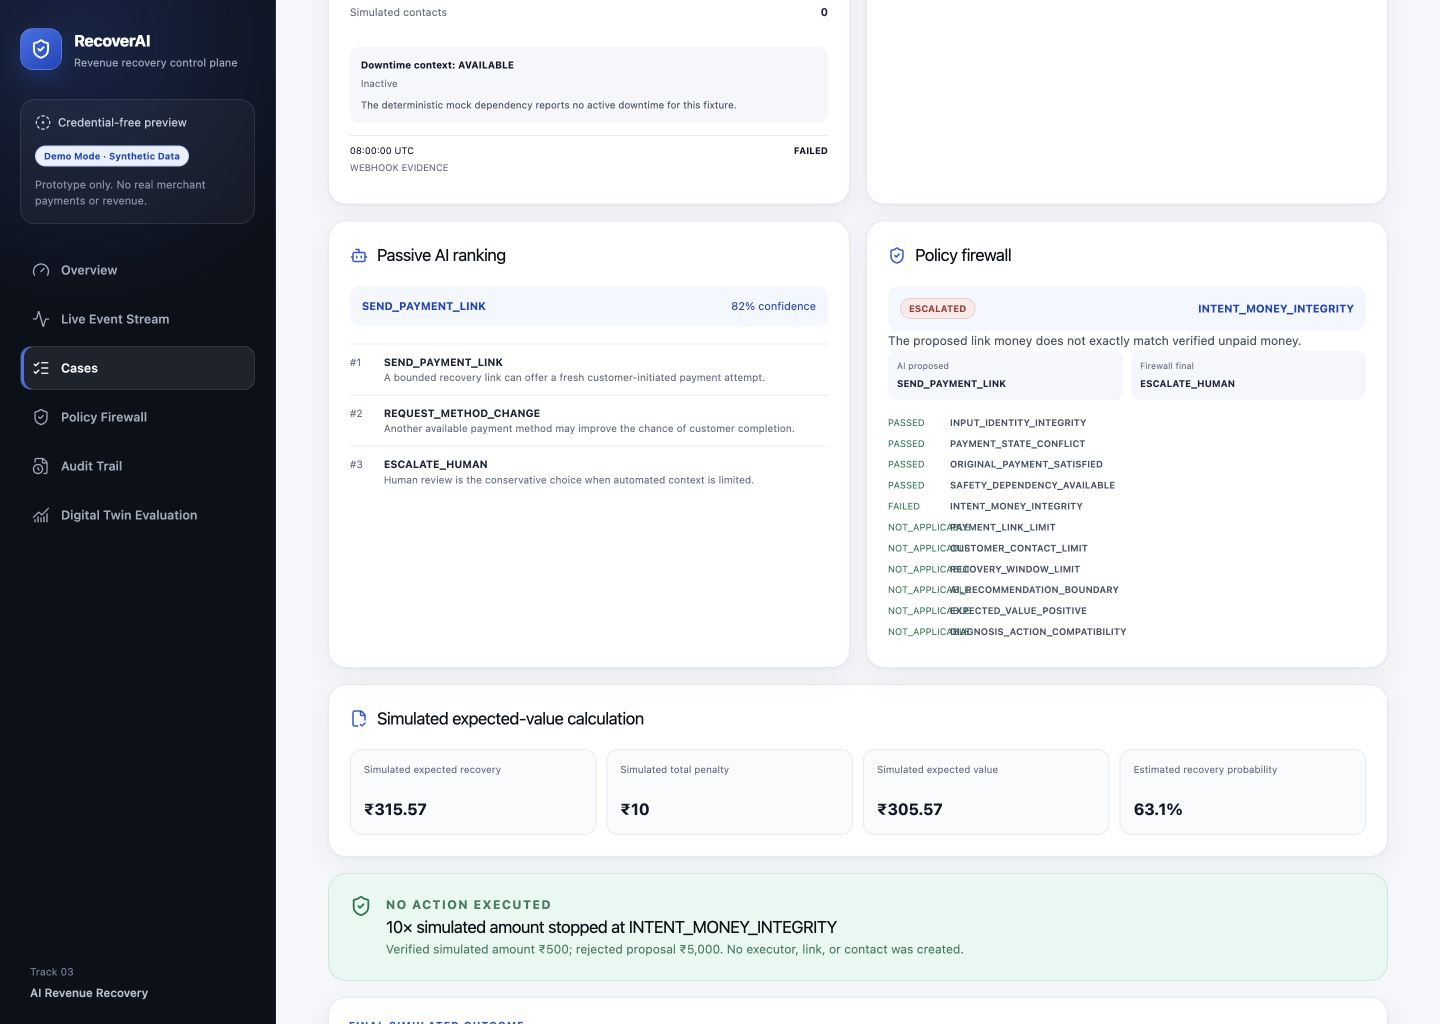
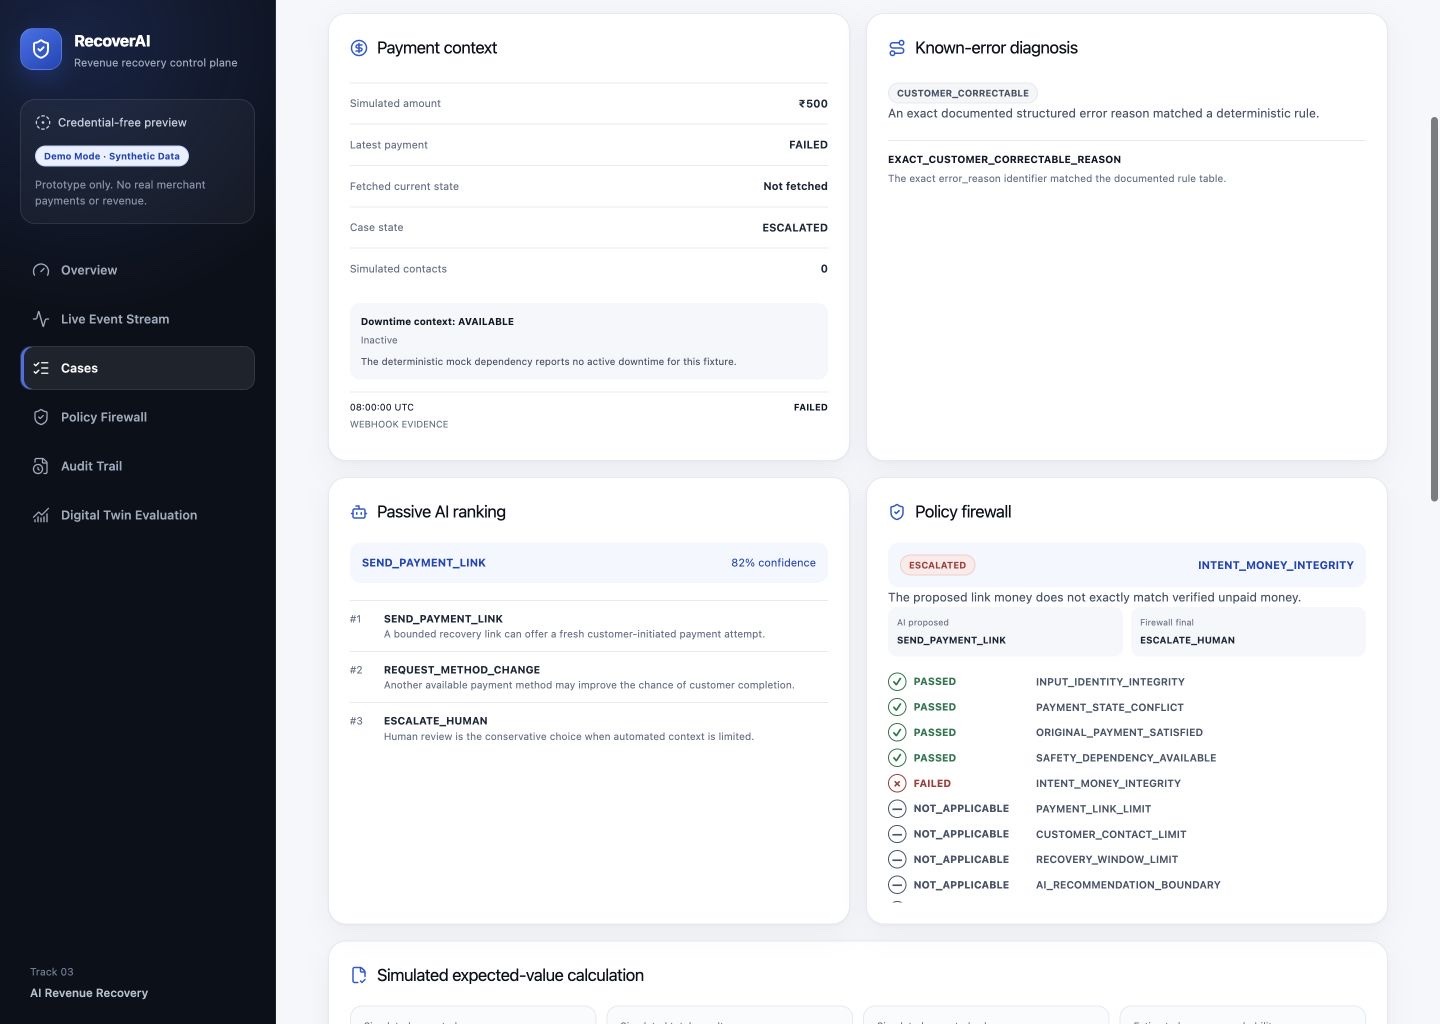
fix: finalize RecoverAI release candidate

diff --git a/app/globals.css b/app/globals.css
@@ -981,6 +981,8 @@ a {
   *::before,
   *::after {
     scroll-behavior: auto !important;
+    animation-duration: 0.01ms !important;
+    animation-iteration-count: 1 !important;
     transition-duration: 0.01ms !important;
   }
 }
@@ -1300,19 +1302,52 @@ a {
 
 .check-list > div {
   display: grid;
-  grid-template-columns: 54px 1fr;
+  grid-template-columns: minmax(8.75rem, max-content) minmax(0, 1fr);
   gap: 8px;
   align-items: center;
-  font-size: 0.58rem;
+  font-size: 0.64rem;
 }
 
-.check-list span {
+.policy-check-status {
+  display: inline-flex;
+  min-width: 0;
+  align-items: center;
+  gap: 0.45rem;
+  color: var(--ink-600);
+  font-weight: 750;
+  line-height: 1.35;
+  white-space: nowrap;
+}
+
+.policy-check-status > span[aria-hidden="true"] {
+  display: inline-grid;
+  width: 1.15rem;
+  height: 1.15rem;
+  flex: none;
+  place-items: center;
+  border: 1px solid currentColor;
+  border-radius: 999px;
+  font-size: 0.7rem;
+}
+
+[data-status="PASSED"] .policy-check-status {
   color: var(--green-700);
 }
 
-.check-list strong {
+[data-status="FAILED"] .policy-check-status {
+  color: var(--red-700);
+}
+
+[data-status="NOT_APPLICABLE"] .policy-check-status {
+  color: var(--ink-600);
+}
+
+.policy-check-rule {
+  min-width: 0;
+  overflow-wrap: anywhere;
   color: var(--ink-600);
   font-weight: 600;
+  line-height: 1.4;
 }
 
 .ev-card,
@@ -1931,11 +1966,11 @@ summary:focus-visible {
 }
 .policy-checks li {
   display: grid;
-  grid-template-columns: 64px 1fr;
+  grid-template-columns: minmax(8.75rem, max-content) minmax(0, 1fr);
   gap: 6px 8px;
   border-top: 1px solid var(--line);
   padding: 9px 0;
-  font-size: 0.58rem;
+  font-size: 0.64rem;
 }
 .policy-checks li p {
   grid-column: 2;
@@ -1999,11 +2034,19 @@ summary:focus-visible {
   font-size: 0.58rem;
 }
 .evaluation-identity dd {
+  min-width: 0;
   margin: 5px 0 0;
   overflow-wrap: anywhere;
   color: var(--ink-800);
   font-size: 0.62rem;
   font-weight: 650;
+}
+.evaluation-identity dd code {
+  display: block;
+  max-width: 100%;
+  overflow-wrap: anywhere;
+  white-space: normal;
+  word-break: break-word;
 }
 .evaluation-metrics {
   margin: 14px 0;

diff --git a/src/dashboard/__tests__/dashboard.test.tsx b/src/dashboard/__tests__/dashboard.test.tsx
@@ -111,7 +111,33 @@ describe("Milestone 14 dashboard evidence", () => {
         "ESCALATE_HUMAN",
       ],
       integrityRules: ["Exact amount and currency must match."],
-      recentDecisions: [],
+      recentDecisions: [
+        {
+          caseReference: "case_policy_layout_regression",
+          proposedAction: "SEND_PAYMENT_LINK",
+          finalAction: "ESCALATE_HUMAN",
+          outcome: "ESCALATED",
+          primaryRule: "INTENT_MONEY_INTEGRITY",
+          reason: "The proposed amount did not match trusted context.",
+          checks: [
+            {
+              ruleId: "IDENTITY_INTEGRITY",
+              status: "PASSED",
+              reason: "Trusted identities match.",
+            },
+            {
+              ruleId: "INTENT_MONEY_INTEGRITY",
+              status: "FAILED",
+              reason: "The proposed amount does not match.",
+            },
+            {
+              ruleId: "ALL_GUARDRAILS_PASSED",
+              status: "NOT_APPLICABLE",
+              reason: "Later rules cannot approve a rejected proposal.",
+            },
+          ],
+        },
+      ],
     });
     const policyHtml = renderToStaticMarkup(
       <PolicyFirewallPage model={policy} />,
@@ -121,6 +147,10 @@ describe("Milestone 14 dashboard evidence", () => {
     );
     expect(policyHtml).toContain("70%");
     expect(policyHtml).toContain("24 hours");
+    expect(policyHtml).toContain('aria-label="Status: PASSED"');
+    expect(policyHtml).toContain('aria-label="Status: FAILED"');
+    expect(policyHtml).toContain('aria-label="Status: NOT APPLICABLE"');
+    expect(policyHtml).toContain('class="policy-check-rule"');
 
     const auditHtml = renderToStaticMarkup(
       <AuditTrailPage

diff --git a/src/components/cases/case-detail.tsx b/src/components/cases/case-detail.tsx
@@ -13,6 +13,7 @@ import Link from "next/link";
 import { useState } from "react";
 
 import { DemoActionControls } from "@/components/cases/demo-action-controls";
+import { PolicyCheckStatus } from "@/components/policy/policy-check-status";
 import { Badge } from "@/components/ui/badge";
 import { formatInrFromPaise } from "@/lib/currency";
 import type { DemoCaseReadModel } from "@/orchestration/contracts";
@@ -210,8 +211,10 @@ export function CaseDetail({
               <div className="check-list">
                 {model.policy.checks.map((check) => (
                   <div key={check.ruleId} data-status={check.status}>
-                    <span>{check.status}</span>
-                    <strong>{check.ruleId}</strong>
+                    <PolicyCheckStatus status={check.status} />
+                    <strong className="policy-check-rule">
+                      {check.ruleId}
+                    </strong>
                   </div>
                 ))}
               </div>

diff --git a/src/components/policy/policy-firewall-page.tsx b/src/components/policy/policy-firewall-page.tsx
@@ -1,5 +1,6 @@
 import { LockKeyhole, Scale, ShieldCheck } from "lucide-react";
 
+import { PolicyCheckStatus } from "@/components/policy/policy-check-status";
 import { Badge } from "@/components/ui/badge";
 import type { PolicyReadModel } from "@/dashboard/contracts";
 
@@ -142,8 +143,10 @@ export function PolicyFirewallPage({ model }: { model: PolicyReadModel }) {
                   <ol className="policy-checks">
                     {decision.checks.map((check) => (
                       <li key={check.ruleId} data-status={check.status}>
-                        <span>{check.status}</span>
-                        <strong>{check.ruleId}</strong>
+                        <PolicyCheckStatus status={check.status} />
+                        <strong className="policy-check-rule">
+                          {check.ruleId}
+                        </strong>
                         <p>{check.reason}</p>
                       </li>
                     ))}

diff --git a/src/components/cases/cases-ui.test.tsx b/src/components/cases/cases-ui.test.tsx
@@ -235,6 +235,11 @@ describe("Milestone 9 cases UI", () => {
                 status: "PASSED",
                 reason: "The allowlisted action may proceed once.",
               },
+              {
+                ruleId: "ORIGINAL_PAYMENT_SATISFIED",
+                status: "NOT_APPLICABLE",
+                reason: "The trusted synthetic payment remains unpaid.",
+              },
             ],
           },
           finalSimulatedOutcome:
@@ -252,6 +257,8 @@ describe("Milestone 9 cases UI", () => {
     expect(html).toContain("Firewall final");
     expect(html).toContain("INTENT_MONEY_INTEGRITY");
     expect(html).toContain("ALL_GUARDRAILS_PASSED");
+    expect(html).toContain('aria-label="Status: NOT APPLICABLE"');
+    expect(html).toContain('class="policy-check-rule"');
     expect(html).toContain("Mock Payment Link created");
   });
 });

diff --git a/src/components/policy/policy-check-status.tsx b/src/components/policy/policy-check-status.tsx
@@ -1,0 +1,24 @@
+type PolicyCheckStatusValue = "PASSED" | "FAILED" | "NOT_APPLICABLE";
+
+const STATUS_MARKS: Record<PolicyCheckStatusValue, string> = {
+  PASSED: "✓",
+  FAILED: "×",
+  NOT_APPLICABLE: "—",
+};
+
+export function PolicyCheckStatus({
+  status,
+}: {
+  status: PolicyCheckStatusValue;
+}) {
+  return (
+    <span
+      aria-label={`Status: ${status.replaceAll("_", " ")}`}
+      className="policy-check-status"
+      data-policy-status={status}
+    >
+      <span aria-hidden="true">{STATUS_MARKS[status]}</span>
+      <span>{status}</span>
+    </span>
+  );
+}

diff --git a/docs/submission/SUBMISSION_CHECKLIST.md b/docs/submission/SUBMISSION_CHECKLIST.md
@@ -64,29 +64,34 @@ Current status: **no license has been selected**.
 
 ## Five-minute rehearsal
 
-- [ ] Presenter rehearses the exact `DEMO_SCRIPT.md` sequence under five minutes.
-- [ ] Reset is run immediately before rehearsal/recording.
-- [ ] Duplicate and out-of-order scenarios display expected counters.
-- [ ] Ten-times amount scenario stops at `INTENT_MONEY_INTEGRITY` with zero executor/link/contact effects.
-- [ ] Primary simulated loop reaches `LINK_CREATED`, then terminal `RECOVERED` after the fixed paid event.
-- [ ] Presenter says “simulated” with every financial result and correctly converts subunits to rupees.
-- [ ] Presenter states the 43 unresolved/escalated outcomes and synthetic/AI/Test Mode limitations.
-- [ ] Fallback tabs for README, golden report, and Judge Q&A are ready.
+- [x] Local presenter rehearsal followed the exact `DEMO_SCRIPT.md` sequence in 4 minutes 7 seconds.
+- [x] Reset was run immediately before the successful local rehearsal.
+- [x] Duplicate and out-of-order scenarios displayed expected counters.
+- [x] Ten-times amount scenario stopped at `INTENT_MONEY_INTEGRITY` with zero executor/link/contact effects.
+- [x] Primary simulated loop reached `LINK_CREATED`, then terminal `RECOVERED` after the fixed paid event.
+- [x] Local rehearsal used “simulated” with every financial result and correctly converted subunits to rupees.
+- [x] Local rehearsal stated the 43 unresolved/escalated outcomes and synthetic/AI/Test Mode limitations.
+- [x] README, golden report, and Judge Q&A fallback evidence was ready.
+
+The rehearsal above is local Phase A evidence. It is not a hosted recording or public video URL.
 
 ## Final verification before submission
 
-- [ ] Pull/checkout the exact final candidate and run `npm ci`.
-- [ ] Run `npm run check` with no credentials.
-- [ ] Run `npm run evaluation:check` and verify exact equality.
[1 lines of base64/hex data omitted]
-- [ ] Run the final repository secret/generated-artifact scan.
-- [ ] Inspect `git status` and the staged file list.
-- [ ] Confirm no `.env.local`, database/WAL/SHM file, `node_modules`, `.next`, coverage, credential, secret, short URL, or customer data is tracked.
-- [ ] Confirm normal verification made zero live provider calls and created zero live Payment Links.
+- [x] Check out the exact local Phase A candidate in an isolated clone and run `npm ci`.
+- [x] Run `npm run check` with no credentials.
+- [x] Run `npm run evaluation:check` and verify exact equality.
[1 lines of base64/hex data omitted]
+- [x] Run the local Phase A repository secret/generated-artifact scan.
+- [x] Inspect `git status` and the staged file list.
+- [x] Confirm no `.env.local`, database/WAL/SHM file, `node_modules`, `.next`, coverage, credential, secret, short URL, or customer data is tracked.
+- [x] Confirm normal verification made zero live provider calls and created zero live Payment Links.
 - [ ] **Final CI result — `USER/REMOTE-SUPPLIED`:** link the passing CI run after the final public push.
 
 ## Milestone 18 release fields — not part of Milestone 17
 
+- [x] Complete local Phase A browser verification across all six pages at desktop, tablet, and mobile widths.
+- [x] Verify local production runtime logs, console output, keyboard focus, reduced motion, and deterministic scenario resets.
+- [x] Replace the policy-safety screenshot with the corrected deterministic Demo Mode evidence.
 - [ ] Perform final desktop/mobile browser verification on the deployed public URL.
 - [ ] Check deployed console/runtime logs and all six pages.
 - [ ] Confirm signed-webhook and Demo Mode safe failure behavior in the deployment environment.

diff --git a/docs/ROADMAP.md b/docs/ROADMAP.md
@@ -2,9 +2,9 @@
 
 ## Progress
 
-- **Current milestone:** None — awaiting explicit approval to begin Milestone 18
+- **Current milestone:** Milestone 18 — Final Browser Verification and Release (Phase A in progress)
 - **Last completed milestone:** Milestone 17 — Documentation and Submission Package
-- **Next proposed milestone:** Milestone 18 — Final Browser Verification and Release (requires explicit approval)
+- **Next proposed milestone:** None — this is the final milestone
 - **Known blockers:** None
 - **Important decisions:** Track 03 RecoverAI scope is locked; mock mode is credential-free and deterministic; Razorpay Test Mode is optional until local stability; every synthetic financial result must be labelled simulated.
 
@@ -255,7 +255,7 @@ Roadmap status must change only after implementation and verification genuinely 
 
 ## Milestone 18 — Final Browser Verification and Release
 
-- **Status:** `NOT_STARTED`
+- **Status:** `IN_PROGRESS`
 - **Outcome:** Submission-ready, browser-verified, and shareable application.
 - **Dependencies:** Milestones 1–17.
 - **Acceptance criteria:**
